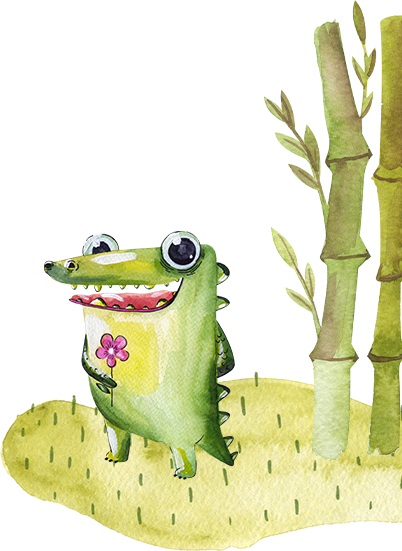
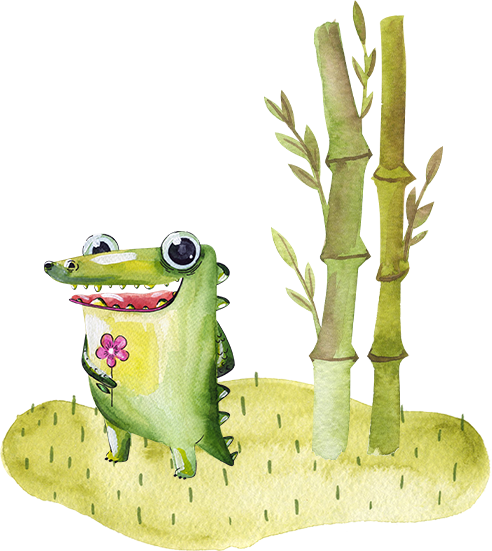
Added wrapper for alligator image, replaced alligator image, and changed positioning of the image.

diff --git a/css/style.css b/css/style.css
@@ -381,9 +381,14 @@ section {
   width: 67%;
 }
 
+.alligator-wrapper {
+  position: relative;
+  height: 150px;
+}
+
 .alligator {
   width: 100%;
-  position: relative;
+  position: absolute;
   bottom: -58px;
 }
 

diff --git a/index.php b/index.php
@@ -73,7 +73,7 @@
   </header>
   <section class="mission">
     <div class="content padding-left">
-      <div class="two-third">
+      <div class="two-third whole-m">
         <h1 class="purple-text">Our Mission</h1>
         <p class="gold-text lighter-text">
           Bilingual picture books which apply augmented reality (AR).
@@ -81,7 +81,10 @@
           communication with others.
         </p>
       </div>
-      <div class="third"><img class="alligator" src="img/alligator.png"/></div>
+      <div class="third whole-m">
+        <div class="alligator-wrapper">
+          <img class="alligator" src="img/alligator.png"/></div>
+        </div>
     </div>
   </section>
   <section class="story-book pink-bg">
